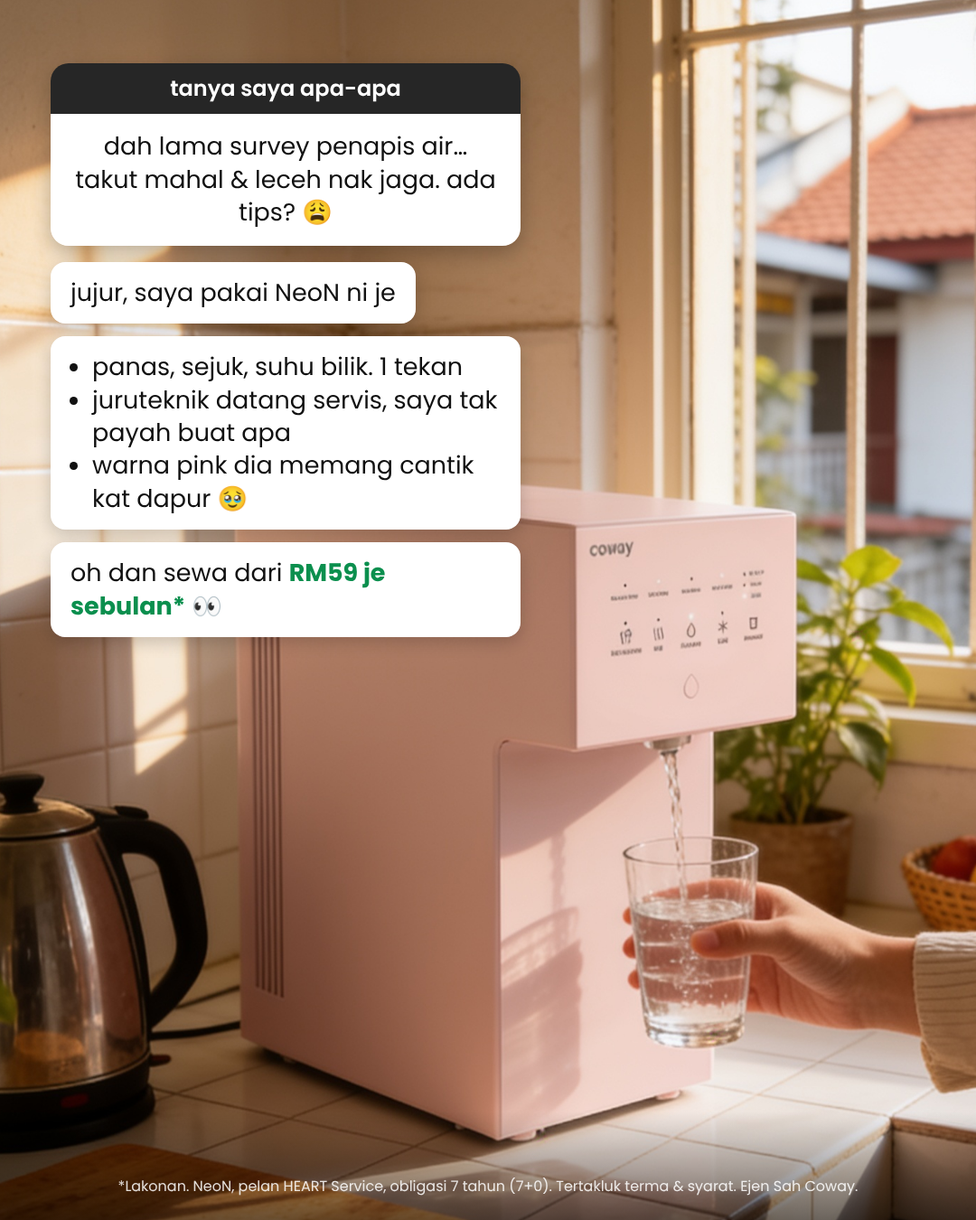
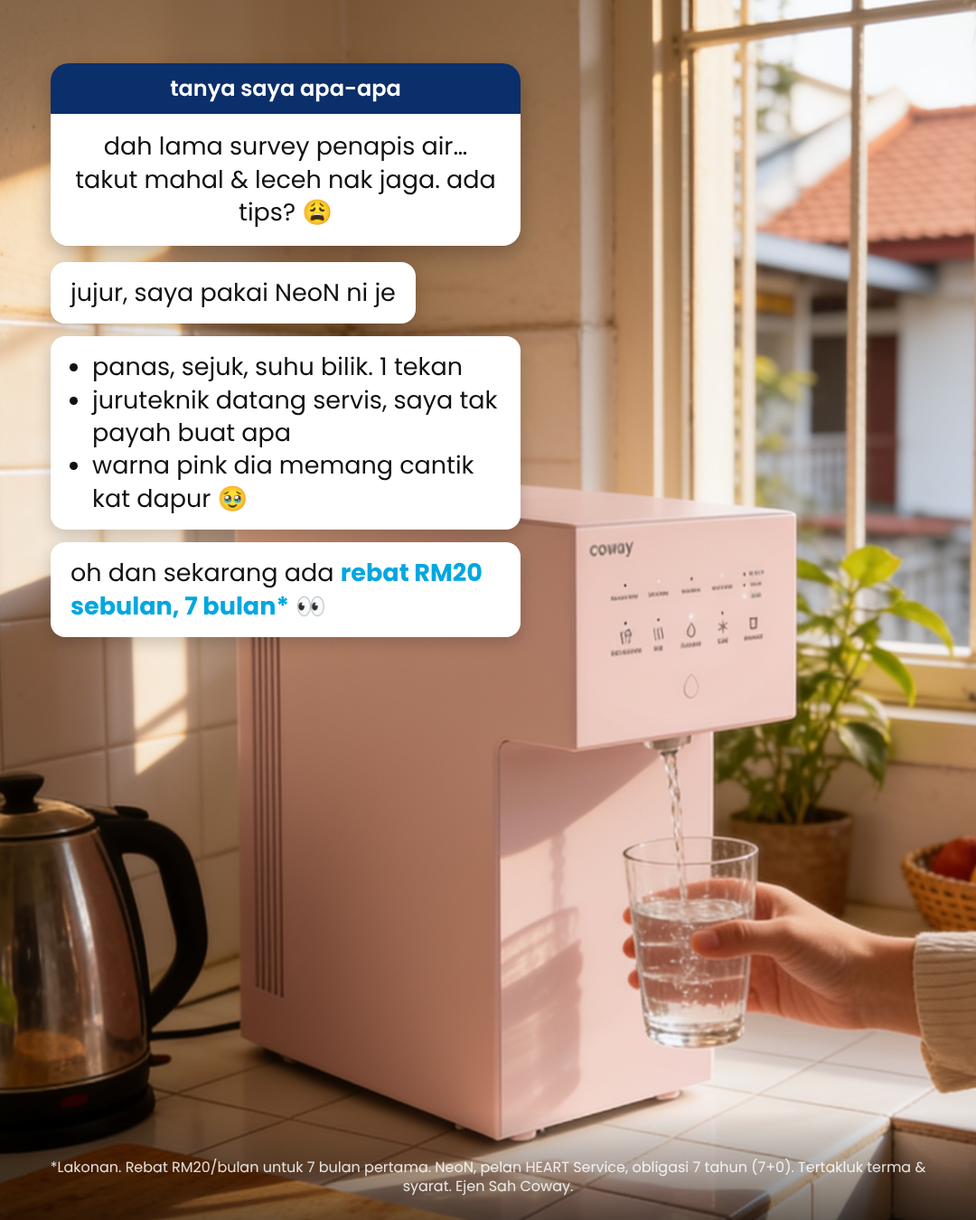
NeoN BOFU posters: Coway brand palette and RM20 x 7 month rebate
Swap Grüns yellow/cream backgrounds for the brand-guide palette, replace
the RM59 rental price with the RM20 x 7 month rebate (save RM140), and
regenerate the gallon photo on a pale blue-grey background.

Claude-Session: https://claude.ai/code/session_011457TDeZ6PRc4vMpQE5tXV

diff --git a/projek/neon-p3-01/poster/bofu.html b/projek/neon-p3-01/poster/bofu.html
@@ -1,6 +1,7 @@
 <!doctype html><html><head><meta charset="utf-8">
 <!-- 6 poster BOFU NeoN (P3 "dah lama survey"), swipe dari Grüns Swipe File (https://claude.ai/artifact/QLScV8VD6BvirhdKm83ybT):
-     p01 Offer Stack #16 · p02 "New here?" kit #82/#32 · p03 Goodbye/Hello #212 · p04 "≠" checklist #148 · p05 3 langkah #181 · p06 UGC "ask me anything" #65 -->
+     p01 Offer Stack #16 · p02 "New here?" kit #82/#32 · p03 Goodbye/Hello #212 · p04 "≠" checklist #148 · p05 3 langkah #181 · p06 UGC "ask me anything" #65
+     Warna: brand-brain/coway/brand-guide.md §3. Promo: rebat RM20 × 7 bulan (tiada harga sewa asas, atas arahan user). -->
 <style>
 @font-face { font-family: P; font-weight: 400; src: url(../../../assets/fonts/Poppins-Regular.ttf); }
 @font-face { font-family: P; font-weight: 500; src: url(../../../assets/fonts/Poppins-Medium.ttf); }
@@ -8,118 +9,118 @@
 @font-face { font-family: P; font-weight: 700; src: url(../../../assets/fonts/Poppins-Bold.ttf); }
 @font-face { font-family: P; font-weight: 800; src: url(../../../assets/fonts/Poppins-ExtraBold.ttf); }
 @font-face { font-family: L; src: url(../../../assets/fonts/LilitaOne-Regular.ttf); }
-@font-face { font-family: S; src: url(../../../assets/fonts/PlayfairDisplay.ttf); }
-:root { --ink:#0B2F6B; --blue:#01A7E1; --yellow:#FFD23F; --red:#E5322D; --wa:#25D366; }
+/* brand-guide §3: Coway Blue, Charcoal, Mist Blue, off-white + palet iklan ejen (Navy, Blue, Sky, Hot, Yellow) */
+:root { --navy:#0B2F6B; --cblue:#01A7E1; --blue:#0B4DA2; --sky:#2EA7E0; --mist:#80ABCE; --char:#464646; --off:#F5F5F5;
+  --hot:#E5322D; --yellow:#FFD23F; --wa:#25D366; }
 * { margin:0; padding:0; box-sizing:border-box; }
-body { font-family:P, sans-serif; background:#ccc; color:var(--ink); }
+body { font-family:P, sans-serif; background:#ccc; color:var(--navy); }
 .poster { position:relative; width:1080px; height:1350px; overflow:hidden; margin-bottom:20px; }
 .abs { position:absolute; }
 .L { font-family:L, sans-serif; font-weight:400; text-transform:uppercase; }
 /* tiket kuning senget ala "$1.07 PER DAY!" */
-.ticket { background:var(--yellow); color:var(--ink); font-family:L; text-align:center; line-height:.9; padding:18px 30px 14px;
-  border:4px solid var(--ink); border-radius:10px; box-shadow:6px 8px 0 rgba(11,47,107,.25);
+.ticket { background:var(--yellow); color:var(--navy); font-family:L; text-align:center; line-height:.9; padding:18px 30px 14px;
+  border:4px solid var(--navy); border-radius:10px; box-shadow:6px 8px 0 rgba(11,47,107,.25);
   -webkit-mask:radial-gradient(circle at 0 50%,transparent 14px,#000 15px) left/51% 100% no-repeat,radial-gradient(circle at 100% 50%,transparent 14px,#000 15px) right/51% 100% no-repeat; }
 /* starburst ala "ONLINE EXCLUSIVE" */
-.burst { display:flex; align-items:center; justify-content:center; text-align:center; background:var(--yellow); color:var(--ink);
+.burst { display:flex; align-items:center; justify-content:center; text-align:center;
   clip-path:polygon(50% 0,59% 14%,75% 5%,77% 22%,95% 20%,88% 36%,100% 50%,88% 64%,95% 80%,77% 78%,75% 95%,59% 86%,50% 100%,41% 86%,25% 95%,23% 78%,5% 80%,12% 64%,0 50%,12% 36%,5% 20%,23% 22%,25% 5%,41% 14%); }
 .pill { display:inline-flex; align-items:center; gap:12px; border-radius:60px; font-weight:800; letter-spacing:.5px; }
+.promo { display:inline-block; background:var(--hot); color:#fff; font-weight:800; letter-spacing:2px; border-radius:8px; }
 .foot { left:50px; right:50px; bottom:26px; font-size:16px; line-height:1.35; text-align:center; color:rgba(11,47,107,.6); }
 </style></head><body>
 
 <!-- P01 · Offer Stack (Grüns #16) -->
-<div class="poster" id="p01" style="background:#EEF0F5">
+<div class="poster" id="p01" style="background:var(--off)">
   <img class="abs" style="right:-250px;bottom:40px;width:1050px;-webkit-mask-image:linear-gradient(to right,transparent 0,#000 30%),linear-gradient(transparent 0,#000 25%);-webkit-mask-composite:source-in" src="../../../assets/img/neon/podium5.jpg">
-  <div class="abs" style="left:56px;top:64px;border:3px solid var(--ink);border-radius:12px;padding:8px 22px;font-weight:800;font-size:32px;letter-spacing:1px">BARU NAK PASANG?</div>
-  <div class="abs" style="left:58px;top:150px;font-weight:800;font-size:40px;letter-spacing:.5px">TAK PERLU BAYAR</div>
-  <div class="abs L" style="left:52px;top:200px;font-size:150px;line-height:1;color:var(--ink);opacity:.85">RM3,600
-    <div class="abs" style="left:0;right:0;top:58px;height:16px;background:var(--yellow);transform:rotate(-4deg)"></div></div>
-  <div class="abs L" style="left:50px;top:350px;font-size:250px;line-height:.9;color:var(--ink)">RM59</div>
-  <div class="abs" style="left:60px;top:582px;font-weight:700;font-size:44px">sebulan* je untuk NeoN</div>
-  <div class="abs ticket" style="left:700px;top:150px;transform:rotate(8deg)"><div style="font-size:84px">RM1.97</div><div style="font-size:40px">SEHARI!</div></div>
+  <div class="abs" style="left:56px;top:64px;border:3px solid var(--navy);border-radius:12px;padding:8px 22px;font-weight:800;font-size:32px;letter-spacing:1px">BARU NAK PASANG?</div>
+  <div class="abs promo" style="left:58px;top:160px;font-size:36px;padding:6px 18px">PROMO REBAT</div>
+  <div class="abs L" style="left:50px;top:220px;font-size:270px;line-height:.9;color:var(--navy)">RM20</div>
+  <div class="abs L" style="left:58px;top:460px;font-size:96px;line-height:1;color:var(--cblue)">× 7 BULAN</div>
+  <div class="abs" style="left:60px;top:572px;font-weight:700;font-size:38px;color:var(--char)">setiap bulan, untuk NeoN anda*</div>
+  <div class="abs ticket" style="left:660px;top:430px;transform:rotate(8deg)"><div style="font-size:36px">JIMAT</div><div style="font-size:80px">RM140!</div></div>
   <div class="abs" style="left:60px;top:690px;width:470px">
     <style>
-      #p01 .rr { display:flex; align-items:center; gap:22px; padding:18px 0; border-bottom:3px solid rgba(11,47,107,.25); font-weight:800; font-size:31px; line-height:1.1; text-transform:uppercase; }
+      #p01 .rr { display:flex; align-items:center; gap:22px; padding:18px 0; border-bottom:3px solid rgba(128,171,206,.5); font-weight:800; font-size:31px; line-height:1.1; text-transform:uppercase; }
       #p01 .rr:last-child { border:0; }
       #p01 .rr svg { width:52px; height:52px; flex:none; }
     </style>
-    <div class="rr"><svg viewBox="0 0 24 24" fill="none" stroke="#0B2F6B" stroke-width="1.8" stroke-linecap="round" stroke-linejoin="round"><path d="M3 10.5 12 3l9 7.5V21H3z"/><path d="M9 21v-6h6v6"/></svg>Pemasangan<br>percuma</div>
-    <div class="rr"><svg viewBox="0 0 24 24" fill="none" stroke="#0B2F6B" stroke-width="1.8" stroke-linecap="round" stroke-linejoin="round"><path d="M14.7 6.3a4 4 0 0 0-5.4 5.4L3 18l3 3 6.3-6.3a4 4 0 0 0 5.4-5.4l-2.6 2.6-2.4-.6-.6-2.4z"/></svg>Servis HEART<br>7 tahun percuma</div>
-    <div class="rr"><svg viewBox="0 0 24 24" fill="none" stroke="#0B2F6B" stroke-width="1.8" stroke-linecap="round" stroke-linejoin="round"><path d="M12 3 4 6v6c0 5 3.5 8 8 9 4.5-1 8-4 8-9V6z"/><path d="m8.5 12 2.5 2.5 4.5-5"/></svg>Penapis ditukar<br>ikut kitaran</div>
+    <div class="rr"><svg viewBox="0 0 24 24" fill="none" stroke="#01A7E1" stroke-width="1.8" stroke-linecap="round" stroke-linejoin="round"><path d="M3 10.5 12 3l9 7.5V21H3z"/><path d="M9 21v-6h6v6"/></svg>Pemasangan<br>percuma</div>
+    <div class="rr"><svg viewBox="0 0 24 24" fill="none" stroke="#01A7E1" stroke-width="1.8" stroke-linecap="round" stroke-linejoin="round"><path d="M14.7 6.3a4 4 0 0 0-5.4 5.4L3 18l3 3 6.3-6.3a4 4 0 0 0 5.4-5.4l-2.6 2.6-2.4-.6-.6-2.4z"/></svg>Servis HEART<br>7 tahun percuma</div>
+    <div class="rr"><svg viewBox="0 0 24 24" fill="none" stroke="#01A7E1" stroke-width="1.8" stroke-linecap="round" stroke-linejoin="round"><path d="M12 3 4 6v6c0 5 3.5 8 8 9 4.5-1 8-4 8-9V6z"/><path d="m8.5 12 2.5 2.5 4.5-5"/></svg>Penapis ditukar<br>ikut kitaran</div>
   </div>
-  <div class="abs burst" style="left:40px;top:1050px;width:250px;height:250px;transform:rotate(-10deg)"><div class="L" style="font-size:40px;line-height:.95">EJEN<br>SAH<br>COWAY</div></div>
-  <div class="abs foot" style="left:320px;text-align:right">*NeoN CHP-6210N, sewa pelan HEART Service, obligasi 7 tahun (7+0). Harga tunai RM3,600. RM1.97 = RM59 ÷ 30 hari. Tertakluk terma &amp; syarat.</div>
+  <div class="abs burst" style="left:40px;top:1050px;width:250px;height:250px;transform:rotate(-10deg);background:var(--cblue);color:#fff"><div class="L" style="font-size:40px;line-height:.95">EJEN<br>SAH<br>COWAY</div></div>
+  <div class="abs foot" style="left:320px;text-align:right">*Rebat RM20/bulan untuk 7 bulan pertama (jumlah RM140). NeoN CHP-6210N, sewa pelan HEART Service, obligasi 7 tahun (7+0). Tertakluk terma &amp; syarat.</div>
 </div>
 
 <!-- P02 · "New here? This one's for you" kit (Grüns #82 / #32) -->
-<div class="poster" id="p02" style="background:linear-gradient(#FFF2B8,#FFE07A)">
-  <div class="abs L" style="left:-40px;top:20px;width:1200px;font-size:150px;line-height:.95;color:rgba(255,255,255,.35);letter-spacing:4px;word-spacing:30px">SURVEY SURVEY SURVEY SURVEY SURVEY SURVEY SURVEY</div>
-  <div class="abs L" style="left:0;right:0;top:80px;text-align:center;font-size:78px;line-height:.95;color:var(--blue)">DAH LAMA SURVEY?</div>
-  <div class="abs L" style="left:0;right:0;top:160px;text-align:center;font-size:132px;line-height:.9;color:var(--ink)">YANG NI<br>UNTUK ANDA</div>
-  <!-- produk + bundle servis -->
-  <img class="abs" style="left:110px;top:420px;width:300px;transform:rotate(-4deg);filter:drop-shadow(0 18px 20px rgba(11,47,107,.25))" src="img/neon-pink-cut.png">
-  <div class="abs ticket" style="left:70px;top:440px;transform:rotate(-10deg);padding:10px 18px 8px;border-width:3px"><div style="font-size:40px">RM59</div><div style="font-size:22px">SEBULAN*</div></div>
-  <div class="abs L" style="left:440px;top:640px;font-size:110px;color:var(--ink)">+</div>
-  <div class="abs" style="left:540px;top:470px;width:440px;height:470px;border-radius:26px;overflow:hidden;background:#C9D9EA;border:5px solid var(--ink);transform:rotate(3deg);box-shadow:8px 10px 0 rgba(11,47,107,.2)">
+<div class="poster" id="p02" style="background:linear-gradient(var(--cblue),var(--sky))">
+  <div class="abs L" style="left:-40px;top:20px;width:1200px;font-size:150px;line-height:.95;color:rgba(255,255,255,.12);letter-spacing:4px;word-spacing:30px">SURVEY SURVEY SURVEY SURVEY SURVEY SURVEY SURVEY</div>
+  <div class="abs L" style="left:0;right:0;top:80px;text-align:center;font-size:78px;line-height:.95;color:var(--yellow)">DAH LAMA SURVEY?</div>
+  <div class="abs L" style="left:0;right:0;top:160px;text-align:center;font-size:132px;line-height:.9;color:#fff">YANG NI<br>UNTUK ANDA</div>
+  <img class="abs" style="left:110px;top:420px;width:300px;transform:rotate(-4deg);filter:drop-shadow(0 18px 20px rgba(11,47,107,.35))" src="img/neon-pink-cut.png">
+  <div class="abs ticket" style="left:60px;top:440px;transform:rotate(-10deg);padding:10px 18px 8px;border-width:3px"><div style="font-size:24px">REBAT</div><div style="font-size:44px">RM20</div><div style="font-size:22px">× 7 BULAN*</div></div>
+  <div class="abs L" style="left:440px;top:640px;font-size:110px;color:#fff">+</div>
+  <div class="abs" style="left:540px;top:470px;width:440px;height:470px;border-radius:26px;overflow:hidden;background:#C9D9EA;border:5px solid var(--navy);transform:rotate(3deg);box-shadow:8px 10px 0 rgba(11,47,107,.3)">
     <img class="abs" style="left:-230px;top:-30px;width:820px" src="../../../brand-brain/coway/Other Brand Assets/water-purifier/neon/coway-neon-water-purifier-with-heart-service.jpg">
-    <div class="abs" style="left:0;right:0;bottom:0;padding:16px 20px;background:var(--ink);color:#fff;text-align:center">
+    <div class="abs" style="left:0;right:0;bottom:0;padding:16px 20px;background:var(--navy);color:#fff;text-align:center">
       <div class="L" style="font-size:36px;line-height:1">PASANG + SERVIS 7 THN</div>
       <div class="L" style="font-size:44px;line-height:1;color:var(--yellow)">PERCUMA</div></div>
   </div>
-  <div class="abs pill" style="left:50%;transform:translateX(-50%);top:1010px;background:var(--ink);color:#fff;font-size:34px;padding:22px 46px;white-space:nowrap">WHATSAPP UNTUK TEMPAH →</div>
-  <div class="abs" style="left:60px;right:60px;top:1140px;display:flex;justify-content:space-around;text-align:center">
+  <div class="abs pill" style="left:50%;transform:translateX(-50%);top:1010px;background:var(--navy);color:#fff;font-size:34px;padding:22px 46px;white-space:nowrap">WHATSAPP UNTUK TEMPAH →</div>
+  <div class="abs" style="left:60px;right:60px;top:1140px;display:flex;justify-content:space-around;text-align:center;color:#fff">
     <style>#p02 .st b { display:block; font-family:L; font-size:40px; line-height:1; font-weight:400; } #p02 .st { font-weight:800; font-size:20px; letter-spacing:.5px; }</style>
     <div class="st"><b>HALAL</b>PENAPIS DISAHKAN</div>
     <div class="st"><b>5 WARNA</b>PILIH IKUT DAPUR</div>
     <div class="st"><b>7 TAHUN</b>SERVIS PERCUMA</div>
   </div>
-  <div class="abs foot">*NeoN CHP-6210N, sewa pelan HEART Service, obligasi 7 tahun (7+0). Self-Service dari RM54/bulan. Tertakluk terma &amp; syarat. Ejen Sah Coway.</div>
+  <div class="abs foot" style="color:rgba(255,255,255,.8)">*Rebat RM20/bulan untuk 7 bulan pertama. NeoN CHP-6210N, pelan HEART Service, obligasi 7 tahun (7+0). Tertakluk terma &amp; syarat. Ejen Sah Coway.</div>
 </div>
 
 <!-- P03 · Goodbye / Hello (Grüns #212) -->
-<div class="poster" id="p03" style="background:#F1EBE2">
+<div class="poster" id="p03" style="background:var(--off)">
   <div class="abs" style="left:0;top:0;width:1080px;height:620px;overflow:hidden">
-    <img class="abs" style="left:0;top:-235px;width:1080px" src="img/tong-19l.jpg">
+    <img class="abs" style="left:0;top:-290px;width:1080px" src="img/tong-19l.jpg">
   </div>
-  <div class="abs" style="left:60px;top:70px;font-family:S;font-weight:700;font-size:74px;line-height:1.05;color:var(--ink)">Selamat tinggal,<br>angkat tong!</div>
-  <div class="abs" style="left:0;top:620px;width:1080px;height:3px;background:rgba(11,47,107,.12)"></div>
+  <div class="abs" style="left:60px;top:70px;font-weight:800;font-size:76px;line-height:1.05;letter-spacing:-2px">Selamat tinggal,<br>angkat tong!</div>
+  <div class="abs" style="left:0;top:620px;width:1080px;height:8px;background:var(--cblue)"></div>
   <img class="abs" style="right:20px;top:760px;width:480px" src="../../../assets/img/neon/lineup5.png">
-  <div class="abs" style="left:60px;top:700px;font-family:S;font-weight:700;font-size:74px;line-height:1.05;color:var(--ink)">Hello,<br>air satu tekan!</div>
-  <div class="abs" style="left:62px;top:900px;width:440px;font-size:29px;line-height:1.4;font-weight:500;color:#3D4B60">Panas, sejuk &amp; suhu bilik terus dari NeoN. Tak perlu angkat, tak perlu masak, tak perlu tunggu.</div>
-  <div class="abs pill" style="left:60px;top:1130px;background:var(--ink);color:#fff;font-size:28px;padding:18px 34px">Sewa dari RM59/bulan* · WhatsApp saya</div>
-  <div class="abs foot">*NeoN, pelan HEART Service, obligasi 7 tahun (7+0). Tertakluk terma &amp; syarat. Ejen Sah Coway.</div>
+  <div class="abs" style="left:60px;top:690px;font-weight:800;font-size:76px;line-height:1.05;letter-spacing:-2px">Hello,<br><span style="color:var(--cblue)">air satu tekan!</span></div>
+  <div class="abs" style="left:62px;top:900px;width:440px;font-size:29px;line-height:1.4;font-weight:500;color:var(--char)">Panas, sejuk &amp; suhu bilik terus dari NeoN. Tak perlu angkat, tak perlu masak, tak perlu tunggu.</div>
+  <div class="abs pill" style="left:60px;top:1130px;background:var(--navy);color:#fff;font-size:28px;padding:18px 34px">Rebat RM20 × 7 bulan* · WhatsApp saya</div>
+  <div class="abs foot">*Rebat RM20/bulan untuk 7 bulan pertama. NeoN, pelan HEART Service, obligasi 7 tahun (7+0). Tertakluk terma &amp; syarat. Ejen Sah Coway.</div>
 </div>
 
 <!-- P04 · "Good taste ≠ bad for you" (Grüns #148) -->
-<div class="poster" id="p04" style="background:linear-gradient(#0E86C9 0%,#01A7E1 55%,#FFD23F 100%)">
+<div class="poster" id="p04" style="background:linear-gradient(var(--navy) 0%,var(--blue) 45%,var(--cblue) 100%)">
   <div class="abs L" style="left:0;right:0;top:80px;text-align:center;font-size:150px;line-height:.95;color:var(--yellow);text-transform:none">Cantik ≠<br>mahal.</div>
   <div class="abs" style="left:60px;top:480px;display:grid;gap:22px">
     <style>
-      #p04 .chip { display:flex; align-items:center; gap:14px; background:#fff; border-radius:14px; padding:14px 22px 14px 14px; font-weight:700; font-size:28px; line-height:1.15; box-shadow:0 8px 18px rgba(11,47,107,.18); width:max-content; max-width:440px; }
-      #p04 .chip i { width:40px; height:40px; flex:none; border-radius:9px; background:var(--blue); color:#fff; font-style:normal; font-weight:800; font-size:26px; display:flex; align-items:center; justify-content:center; }
+      #p04 .chip { display:flex; align-items:center; gap:14px; background:#fff; border-radius:14px; padding:14px 22px 14px 14px; font-weight:700; font-size:28px; line-height:1.15; box-shadow:0 8px 18px rgba(0,0,0,.18); width:max-content; max-width:440px; }
+      #p04 .chip i { width:40px; height:40px; flex:none; border-radius:9px; background:var(--cblue); color:#fff; font-style:normal; font-weight:800; font-size:26px; display:flex; align-items:center; justify-content:center; }
     </style>
     <div class="chip"><i>✓</i>5 warna pastel untuk dapur anda</div>
     <div class="chip"><i>✓</i>Panas, sejuk &amp; suhu bilik</div>
     <div class="chip"><i>✓</i>Child lock air panas</div>
     <div class="chip"><i>✓</i>Servis HEART 7 tahun percuma</div>
   </div>
-  <img class="abs" style="left:600px;top:460px;width:340px;filter:drop-shadow(0 26px 30px rgba(11,47,107,.35))" src="img/neon-pink-cut.png">
-  <div class="abs" style="left:800px;top:930px;width:220px;height:220px;border-radius:50%;background:var(--ink);border:6px solid var(--yellow);color:#fff;display:flex;flex-direction:column;align-items:center;justify-content:center;transform:rotate(-8deg);box-shadow:0 12px 26px rgba(11,47,107,.35)">
-    <div style="font-weight:700;font-size:22px;letter-spacing:2px">SEWA DARI</div><div class="L" style="font-size:76px;line-height:.95;color:var(--yellow)">RM59</div><div style="font-weight:700;font-size:22px">sebulan*</div></div>
-  <div class="abs pill" style="left:60px;top:1130px;background:var(--wa);color:#fff;font-size:30px;padding:20px 38px;box-shadow:0 10px 22px rgba(11,47,107,.25)">WHATSAPP SAYA SEKARANG</div>
-  <div class="abs foot">*NeoN, pelan HEART Service, obligasi 7 tahun (7+0). Tertakluk terma &amp; syarat. Ejen Sah Coway.</div>
+  <img class="abs" style="left:600px;top:460px;width:340px;filter:drop-shadow(0 26px 30px rgba(0,0,0,.35))" src="img/neon-pink-cut.png">
+  <div class="abs" style="left:790px;top:920px;width:240px;height:240px;border-radius:50%;background:var(--yellow);border:6px solid #fff;color:var(--navy);display:flex;flex-direction:column;align-items:center;justify-content:center;transform:rotate(-8deg);box-shadow:0 12px 26px rgba(0,0,0,.3)">
+    <div style="font-weight:800;font-size:22px;letter-spacing:2px">REBAT</div><div class="L" style="font-size:80px;line-height:.95">RM20</div><div style="font-weight:800;font-size:22px">× 7 BULAN*</div></div>
+  <div class="abs pill" style="left:60px;top:1130px;background:var(--wa);color:#fff;font-size:30px;padding:20px 38px;box-shadow:0 10px 22px rgba(0,0,0,.25)">WHATSAPP SAYA SEKARANG</div>
+  <div class="abs foot" style="color:rgba(255,255,255,.8)">*Rebat RM20/bulan untuk 7 bulan pertama. NeoN, pelan HEART Service, obligasi 7 tahun (7+0). Tertakluk terma &amp; syarat. Ejen Sah Coway.</div>
 </div>
 
 <!-- P05 · 3 langkah (Grüns #181) -->
-<div class="poster" id="p05" style="background:#FFF8E6">
+<div class="poster" id="p05" style="background:var(--off)">
   <div class="abs" style="left:40px;right:40px;top:70px;text-align:center;font-size:44px;line-height:1.25;font-weight:600">
-    Dari <b style="font-weight:800">“angkat tong tiap minggu”</b><br>ke <b style="font-weight:800;color:var(--blue)">“air siap dengan 1 tekan”</b><br>dalam 3 langkah mudah</div>
+    Dari <b style="font-weight:800">“angkat tong tiap minggu”</b><br>ke <b style="font-weight:800;color:var(--cblue)">“air siap dengan 1 tekan”</b><br>dalam 3 langkah mudah</div>
   <div class="abs" style="left:60px;right:60px;top:330px;display:grid;gap:26px">
     <style>
       #p05 .step { display:flex; height:220px; border-radius:22px; overflow:hidden; box-shadow:0 10px 22px rgba(11,47,107,.10); }
-      #p05 .ic { width:240px; flex:none; background:var(--blue); position:relative; overflow:hidden; display:flex; align-items:center; justify-content:center; }
-      #p05 .tx { flex:1; background:linear-gradient(90deg,#FFE27A,#FFD23F); padding:0 40px; display:flex; flex-direction:column; justify-content:center; }
+      #p05 .ic { width:240px; flex:none; background:var(--cblue); position:relative; overflow:hidden; display:flex; align-items:center; justify-content:center; }
+      #p05 .tx { flex:1; background:linear-gradient(90deg,#fff,#E3EDF6); padding:0 40px; display:flex; flex-direction:column; justify-content:center; border-right:10px solid var(--mist); }
       #p05 .tx b { font-weight:800; font-style:italic; font-size:38px; line-height:1.1; }
-      #p05 .tx span { font-weight:500; font-size:29px; line-height:1.3; margin-top:6px; }
+      #p05 .tx span { font-weight:500; font-size:29px; line-height:1.3; margin-top:6px; color:var(--char); }
       #p05 .dot { width:44px; height:44px; border-radius:50%; border:3px solid #fff; }
     </style>
     <div class="step"><div class="ic"><div style="display:grid;grid-template-columns:repeat(3,44px);gap:12px"><span class="dot" style="background:#F2C6CF"></span><span class="dot" style="background:#BFD3B8"></span><span class="dot" style="background:#B7CDE6"></span><span class="dot" style="background:#4A4C52"></span><span class="dot" style="background:#fff"></span></div></div>
@@ -129,8 +130,8 @@ body { font-family:P, sans-serif; background:#ccc; color:var(--ink); }
     <div class="step"><div class="ic"><img style="position:absolute;left:-90px;top:-40px;width:420px" src="../../../brand-brain/coway/Other Brand Assets/water-purifier/neon/coway-neon-water-purifier-eco-mode.jpg"></div>
       <div class="tx"><b>Langkah 3 – Tekan &amp; minum</b><span>Panas, sejuk atau suhu bilik.</span></div></div>
   </div>
-  <div class="abs pill" style="left:50%;transform:translateX(-50%);top:1100px;background:var(--ink);color:#fff;font-size:30px;padding:20px 40px;white-space:nowrap">Sewa dari RM59/bulan* · WhatsApp saya</div>
-  <div class="abs foot">*NeoN, pelan HEART Service, obligasi 7 tahun (7+0). Servis HEART percuma 7 tahun. Tertakluk terma &amp; syarat. Ejen Sah Coway.</div>
+  <div class="abs pill" style="left:50%;transform:translateX(-50%);top:1100px;background:var(--navy);color:#fff;font-size:30px;padding:20px 40px;white-space:nowrap"><span class="promo" style="font-size:22px;padding:4px 12px;letter-spacing:1px">PROMO</span>Rebat RM20 × 7 bulan* · WhatsApp saya</div>
+  <div class="abs foot">*Rebat RM20/bulan untuk 7 bulan pertama. NeoN, pelan HEART Service, obligasi 7 tahun (7+0). Servis HEART percuma 7 tahun. Tertakluk terma &amp; syarat. Ejen Sah Coway.</div>
 </div>
 
 <!-- P06 · UGC native "ask me anything" (Grüns #65) -->
@@ -140,7 +141,7 @@ body { font-family:P, sans-serif; background:#ccc; color:var(--ink); }
     <style>
       #p06 .box { background:#fff; color:#111; border-radius:16px; padding:16px 22px; box-shadow:0 6px 18px rgba(0,0,0,.18); margin-bottom:14px; width:max-content; max-width:520px; }
       #p06 .ama { border-radius:20px; overflow:hidden; box-shadow:0 8px 22px rgba(0,0,0,.25); margin-bottom:18px; }
-      #p06 .ama div:first-child { background:#262626; color:#fff; text-align:center; font-weight:600; font-size:24px; padding:12px; }
+      #p06 .ama div:first-child { background:var(--navy); color:#fff; text-align:center; font-weight:600; font-size:24px; padding:12px; }
       #p06 .ama div:last-child { background:#fff; color:#111; text-align:center; padding:18px 24px; }
       #p06 ul { padding-left:24px; }
     </style>
@@ -150,10 +151,10 @@ body { font-family:P, sans-serif; background:#ccc; color:var(--ink); }
       <li>panas, sejuk, suhu bilik. 1 tekan</li>
       <li>juruteknik datang servis, saya tak payah buat apa</li>
       <li>warna pink dia memang cantik kat dapur 🥹</li></ul></div>
-    <div class="box">oh dan sewa dari <b style="color:#0B8F4E">RM59 je sebulan*</b> 👀</div>
+    <div class="box">oh dan sekarang ada <b style="color:var(--cblue)">rebat RM20 sebulan, 7 bulan*</b> 👀</div>
   </div>
   <div class="abs" style="left:0;right:0;bottom:0;height:120px;background:linear-gradient(rgba(0,0,0,0),rgba(0,0,0,.55))"></div>
-  <div class="abs foot" style="color:rgba(255,255,255,.85)">*Lakonan. NeoN, pelan HEART Service, obligasi 7 tahun (7+0). Tertakluk terma &amp; syarat. Ejen Sah Coway.</div>
+  <div class="abs foot" style="color:rgba(255,255,255,.85)">*Lakonan. Rebat RM20/bulan untuk 7 bulan pertama. NeoN, pelan HEART Service, obligasi 7 tahun (7+0). Tertakluk terma &amp; syarat. Ejen Sah Coway.</div>
 </div>
 
 </body></html>

diff --git a/projek/neon-p3-01/README.md b/projek/neon-p3-01/README.md
@@ -15,21 +15,24 @@ Rujukan: https://claude.ai/artifact/QLScV8VD6BvirhdKm83ybT
 
 | ID | Templat Grüns (iklan #) | Headline |
 |---|---|---|
-| p01 | 01 Offer Stack (#16) | Baru nak pasang? Tak perlu bayar ~~RM3,600~~ RM59 · tiket RM1.97 SEHARI |
-| p02 | 01 "New here? This one's for you" kit (#82, #32) | Dah lama survey? Yang ni untuk anda · NeoN + pasang & servis percuma |
+| p01 | 01 Offer Stack (#16) | Baru nak pasang? PROMO REBAT RM20 × 7 bulan · tiket JIMAT RM140 |
+| p02 | 01 "New here? This one's for you" kit (#82, #32) | Dah lama survey? Yang ni untuk anda · NeoN (tiket rebat RM20 × 7) + pasang & servis percuma |
 | p03 | 09 Goodbye/Hello (#212) | Selamat tinggal, angkat tong! / Hello, air satu tekan! |
 | p04 | 09 "Good taste ≠ bad for you" (#148) | Cantik ≠ mahal. |
 | p05 | 05 3 langkah (#181) | Dari "angkat tong tiap minggu" ke "air siap dengan 1 tekan" |
 | p06 | 03 UGC "ask me anything" (#65) | IG sticker: dah lama survey… ada tips? (dilabel *Lakonan, macam "Fictionalized") |
 
-Harga: NeoN RM59/bulan (HEART, 7+0), Self-Service RM54, tunai RM3,600 (HEART), dari laman rasmi 13 Okt 2026. RM1.97 = RM59 ÷ 30.
+Promo: rebat RM20/bulan × 7 bulan (jimat RM140), NeoN pelan HEART 7+0. Harga sewa asas tidak dipaparkan (arahan user).
+Warna: palet `brand-brain/coway/brand-guide.md` §3 (Navy, Coway Blue, Blue, Sky, Mist Blue, off-white; kuning untuk tiket/harga, merah untuk PROMO).
 Gambar jana Seedream: `poster/img/seedream.txt`.
 
 ## Keputusan
 - 2026-10-25: Versi 1 (corak Grüns umum) diganti dengan versi 2 ikut Grüns Swipe File yang user beri. Templat BOFU dipilih: Offer Stack, kit "new here", Goodbye/Hello, "≠", 3 langkah, UGC AMA. Tiada testimoni bintang (tiada petikan pelanggan sebenar); tiada "tanpa deposit"/hadiah (belum disahkan).
 
+- 2026-10-25: Versi 3 atas arahan user: warna ikut brand-guide Coway, tambah rebat RM20 × 7 bulan, buang harga RM59 (dan RM1.97, RM3,600). Gambar tong dijana semula dengan latar kelabu-biru.
+
 ## Terbuka
 - [ ] User sahkan produk (NeoN) dan 6 poster
-- [ ] Sahkan promo semasa dengan HQ (rebat, tanpa deposit) sebelum tambah ke poster
+- [ ] Sahkan dengan HQ rebat RM20 × 7 bulan terpakai untuk NeoN dan tarikh tamatnya (boleh tambah "sehingga <tarikh>")
 - [ ] Tambah nama / ID ejen pada lencana "Ejen Sah Coway" ikut akaun iklan
 - [ ] Bila ada ≥ 2 petikan pelanggan sebenar: tambah poster testimoni (arketaip review-led Grüns)
